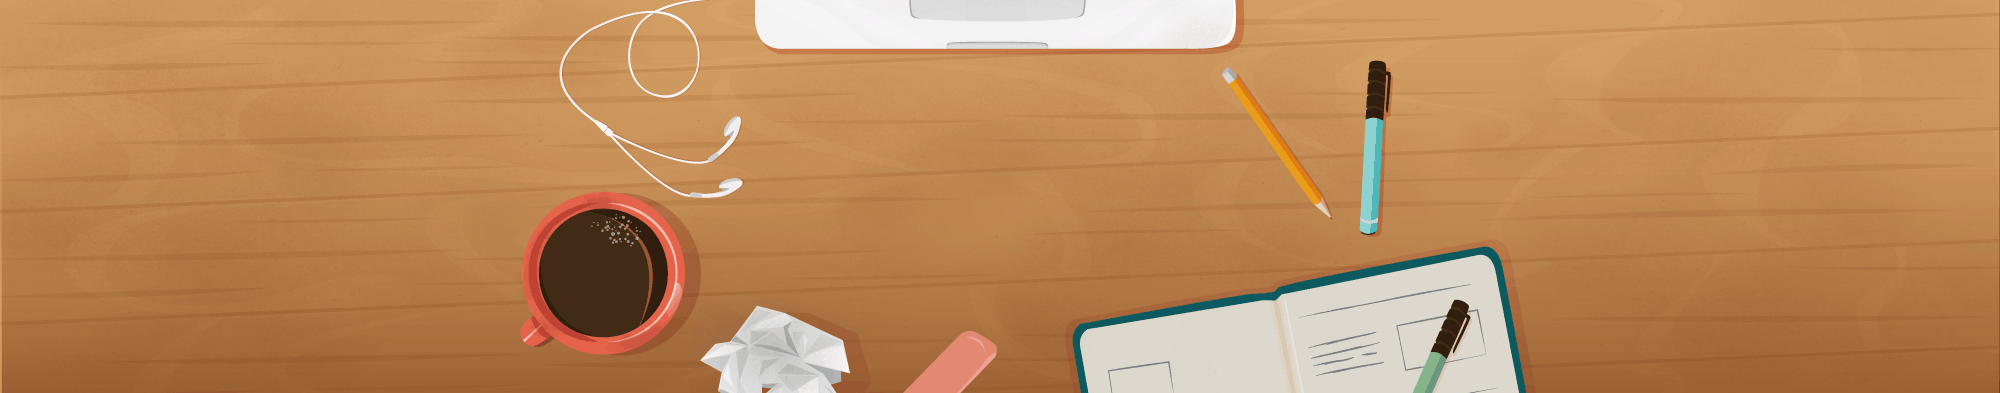
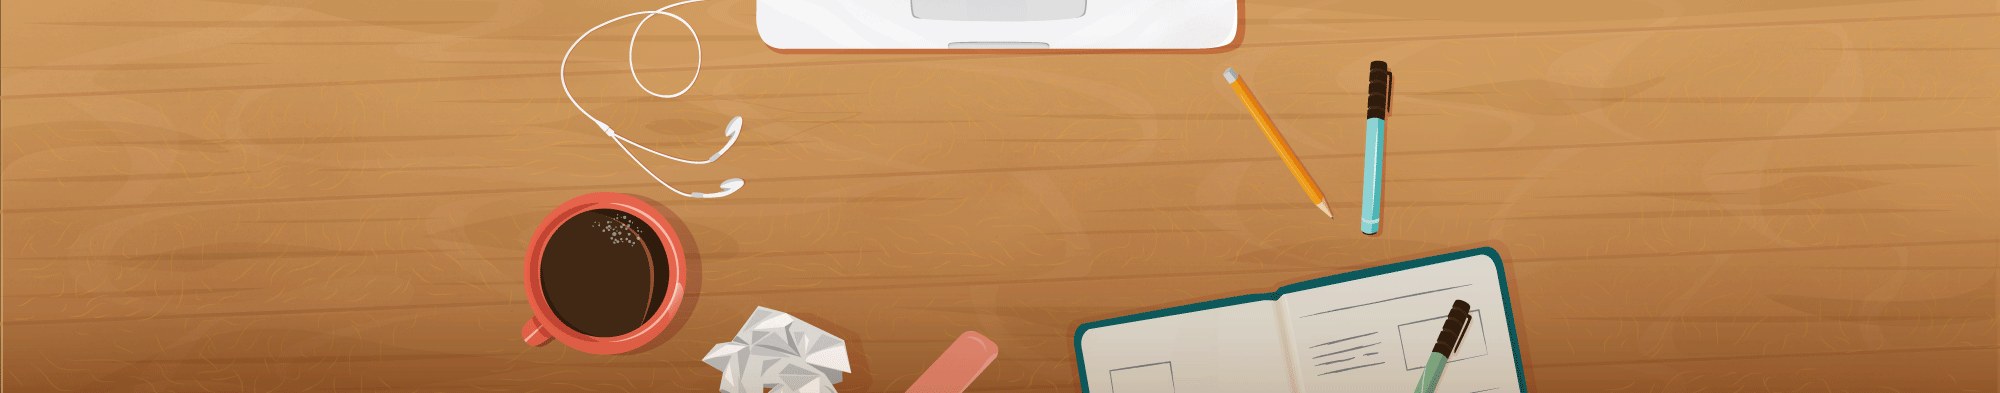
updates to herounit image, background.png, typography edits on index.html

diff --git a/stylesheets/style.css b/stylesheets/style.css
@@ -131,6 +131,7 @@ p{
 	color:#78ecb7;
 	font-size: 1.25em;
 	font-weight:normal;
+	line-height: 1.5em;
 	letter-spacing: 1.75px;
 }
 
@@ -559,12 +560,13 @@ h3.entry-date{
 		width:100%;
 		margin-top: 20px;
 	}
+
 	.hello {
 		margin:0px;	
 	}
 
 	.social {
-		margin:0px;
+		margin:0;
 	}
 
 	.icons{
@@ -628,9 +630,10 @@ h3.entry-date{
 
 	.nav a {
 		margin: 0 8px;
-		}
+	}
 	.rkw{
 		margin-top:0px;
+		font-size: .875em;
 	}	
 }
 
@@ -661,6 +664,13 @@ h3.entry-date{
 	
 	.rkw{
 		margin-top:-24px;
+	}
+
+	.hello{
+		text-align: center;
+	}
+	.social{
+		margin:0 -7% 0 7%;
 	}
 	.icons {
 		margin:0 4% 0 0;

diff --git a/index.html b/index.html
@@ -49,7 +49,7 @@
 						<p>I specialize in an elegant &amp; balanced aesthetic, Spanish-language design, off-beat illustrations, accurate estimates, and excellent client relationships. </p> 
 
 						<p>Got a project you want to talk to me about?</p>
-						<p class='hello'> why not say hello.</p>
+						<p class='hello'>why not say hello.</p>
 						<div class='social'>	
 							<a href="mailto:rebecca@sowhitedesign.com", target="_blank"><img class='icons' src="stylesheets/images/email.png", alt='mail'></a>
 
